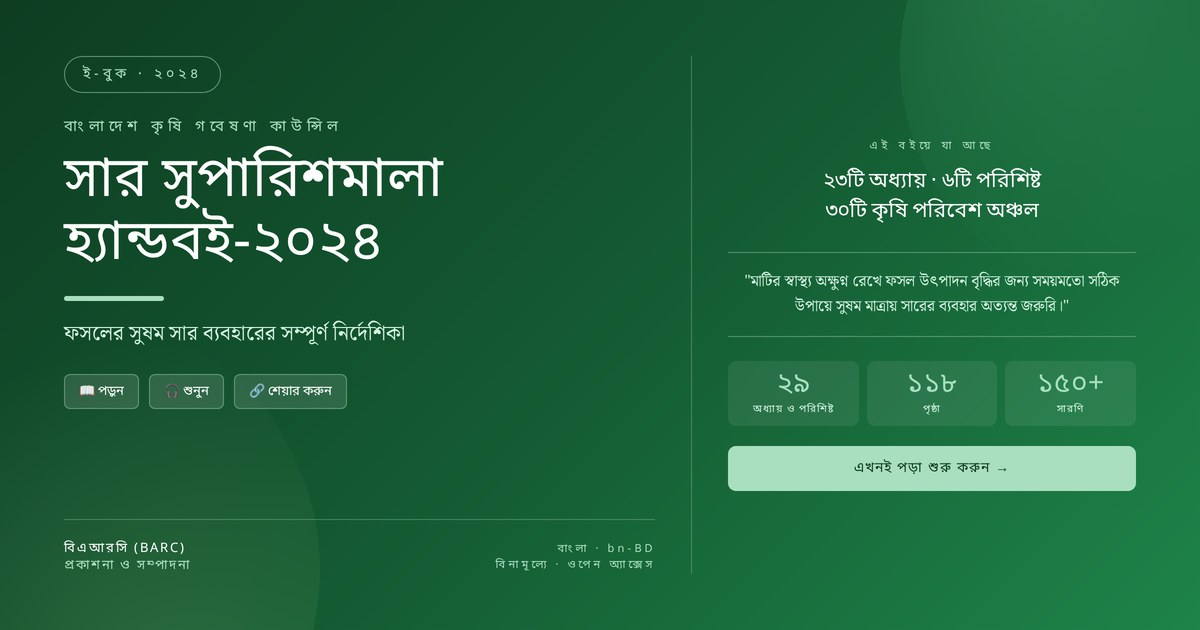
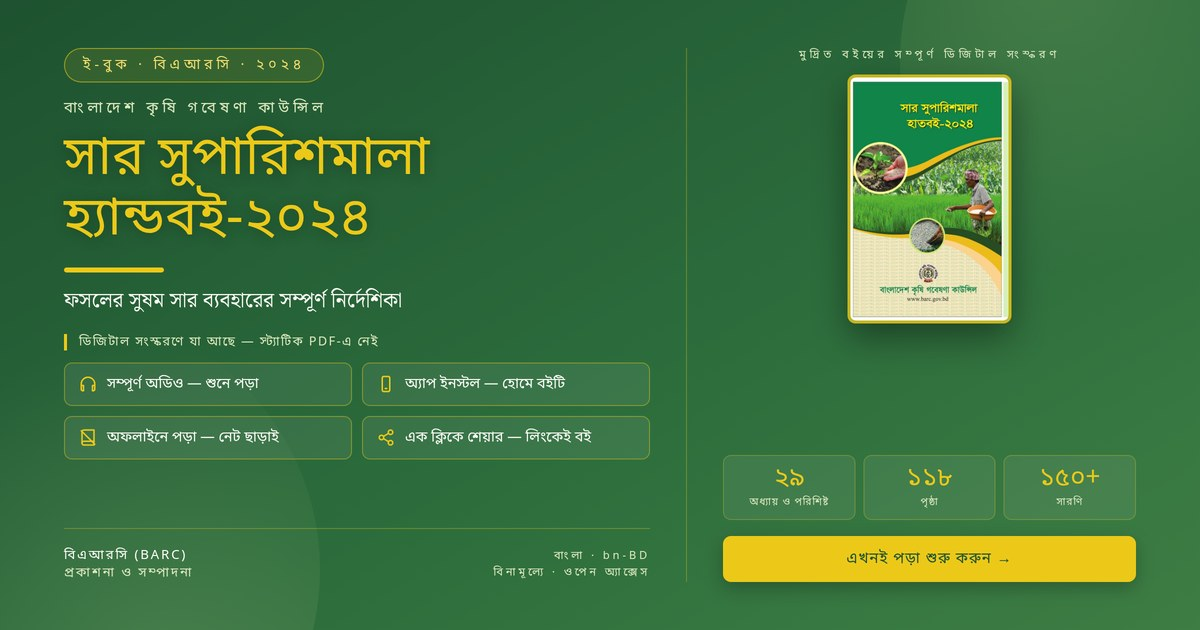
OG/social preview redesign: cover-brand palette (green #2C6C3C + gold #ECC919 gold-foil title), real framed book cover, digital-exclusive value chips (audio listen, app install, offline reading, one-click share) vs static PDF, gold CTA; meta cache-bust ?v=2 + richer alt/description; SW v3.1.6

diff --git a/og-image.html b/og-image.html
@@ -16,16 +16,16 @@
 * { box-sizing: border-box; margin: 0; padding: 0; }
 html, body {
     width: 1200px; height: 630px;
-    background: #0E3D22;
+    background: #1E5230;
     font-family: 'NotoSansBengali', sans-serif;
     overflow: hidden;
 }
 .og-card {
     width: 1200px; height: 630px;
-    background: linear-gradient(135deg, #0E3D22 0%, #145A32 50%, #1E8449 100%);
+    background: linear-gradient(150deg, #1E5230 0%, #2C6C3C 55%, #3E7E44 100%);
     color: #FFFFFF;
     position: relative;
-    padding: 56px 64px;
+    padding: 48px 64px;
     display: flex;
     flex-direction: row;
     align-items: stretch;
@@ -37,7 +37,7 @@ html, body {
     top: -180px; right: -180px;
     width: 480px; height: 480px;
     border-radius: 50%;
-    background: radial-gradient(circle at 30% 30%, rgba(82, 190, 128, 0.25), transparent 65%);
+    background: radial-gradient(circle at 30% 30%, rgba(141, 181, 108, 0.28), transparent 65%);
     pointer-events: none;
 }
 .og-card::after {
@@ -46,11 +46,11 @@ html, body {
     bottom: -200px; left: -200px;
     width: 520px; height: 520px;
     border-radius: 50%;
-    background: radial-gradient(circle at 70% 70%, rgba(174, 214, 142, 0.15), transparent 65%);
+    background: radial-gradient(circle at 70% 70%, rgba(237, 239, 172, 0.14), transparent 65%);
     pointer-events: none;
 }
 .og-left {
-    flex: 1.45;
+    flex: 1.42;
     display: flex;
     flex-direction: column;
     justify-content: space-between;
@@ -61,149 +61,162 @@ html, body {
     flex: 1;
     display: flex;
     flex-direction: column;
-    justify-content: center;
-    align-items: stretch;
+    justify-content: space-between;
+    align-items: center;
     z-index: 2;
-    border-left: 1px solid rgba(169, 223, 191, 0.3);
+    border-left: 1px solid rgba(236, 201, 25, 0.3);
     padding-left: 36px;
 }
 .og-tag {
     display: inline-block;
     font-size: 14px;
-    font-weight: 600;
+    font-weight: 700;
     letter-spacing: 4px;
-    color: #A9DFBF;
-    border: 1px solid rgba(169, 223, 191, 0.5);
-    padding: 8px 18px;
+    color: #F3DC6D;
+    border: 1px solid rgba(236, 201, 25, 0.55);
+    background: rgba(236, 201, 25, 0.10);
+    padding: 7px 18px;
     border-radius: 999px;
     width: fit-content;
 }
 .og-eyebrow {
     font-size: 15px;
-    font-weight: 600;
-    color: #A9DFBF;
-    letter-spacing: 5px;
-    margin-top: 24px;
+    font-weight: 700;
+    color: #DCE8BE;
+    letter-spacing: 4px;
+    margin-top: 16px;
 }
 .og-title {
     font-family: 'NotoSansBengali', sans-serif;
-    font-size: 56px;
+    font-size: 54px;
     font-weight: 900;
     line-height: 1.12;
-    color: #FFFFFF;
-    margin: 14px 0 20px 0;
+    color: #ECC919;
+    text-shadow: 0 2px 14px rgba(0, 0, 0, 0.28);
+    margin: 12px 0 16px 0;
 }
 .og-rule {
     width: 100px; height: 5px;
-    background: #A9DFBF;
-    margin: 0 0 18px 0;
+    background: #ECC919;
+    margin: 0 0 14px 0;
     border-radius: 3px;
 }
 .og-subtitle {
     font-family: 'NotoSerifBengali', serif;
     font-size: 21px;
-    color: #D5F5E3;
-    line-height: 1.45;
-    margin-bottom: 24px;
+    color: #FDFCF7;
+    line-height: 1.4;
+    margin-bottom: 18px;
+}
+.og-digital-eyebrow {
+    font-size: 12.5px;
+    font-weight: 700;
+    color: #DCE8BE;
+    letter-spacing: 1.5px;
+    margin-bottom: 12px;
+    padding-left: 12px;
+    border-left: 3px solid #ECC919;
 }
 .og-features {
-    display: flex;
+    display: grid;
+    grid-template-columns: 1fr 1fr;
     gap: 10px;
-    flex-wrap: wrap;
 }
 .og-feature {
-    font-size: 13px;
-    font-weight: 600;
-    color: #FFFFFF;
-    background: rgba(255, 255, 255, 0.12);
-    border: 1px solid rgba(169, 223, 191, 0.4);
-    padding: 8px 14px;
-    border-radius: 6px;
+    display: flex;
+    align-items: center;
+    gap: 10px;
+    font-size: 14.5px;
+    font-weight: 700;
+    color: #FDFCF7;
+    background: rgba(255, 255, 255, 0.07);
+    border: 1px solid rgba(236, 201, 25, 0.4);
+    padding: 11px 14px;
+    border-radius: 8px;
 }
+.og-feature svg { flex: none; }
 .og-foot {
     display: flex;
     justify-content: space-between;
     align-items: center;
-    margin-top: 26px;
-    padding-top: 20px;
-    border-top: 1px solid rgba(169, 223, 191, 0.3);
+    margin-top: 22px;
+    padding-top: 18px;
+    border-top: 1px solid rgba(236, 201, 25, 0.3);
 }
 .og-author {
     font-size: 13px;
-    color: #A9DFBF;
+    color: #DCE8BE;
     letter-spacing: 2px;
 }
-.og-author strong { color: #FFFFFF; font-weight: 700; }
+.og-author strong { color: #FDFCF7; font-weight: 700; }
 .og-pub {
     font-size: 11px;
-    color: #A9DFBF;
+    color: #DCE8BE;
     letter-spacing: 3px;
     text-align: right;
     line-height: 1.5;
 }
 .og-right-eyebrow {
     font-size: 11px;
-    color: #A9DFBF;
+    color: #DCE8BE;
     letter-spacing: 4px;
     text-transform: uppercase;
-    margin-bottom: 14px;
+    margin-bottom: 12px;
     text-align: center;
 }
-.og-right-title {
-    font-family: 'NotoSansBengali', sans-serif;
-    font-size: 21px;
-    font-weight: 700;
-    color: #FFFFFF;
-    text-align: center;
-    line-height: 1.45;
-    margin-bottom: 16px;
+.og-cover {
+    width: 164px;
+    margin: 0 auto;
 }
-.og-quote {
-    font-family: 'NotoSerifBengali', serif;
-    font-size: 15.5px;
-    color: #D5F5E3;
-    line-height: 1.65;
-    text-align: center;
-    padding: 16px 14px;
-    border-top: 1px solid rgba(169, 223, 191, 0.4);
-    border-bottom: 1px solid rgba(169, 223, 191, 0.4);
-    margin: 8px 0 16px 0;
+.og-cover img {
+    display: block;
+    width: 100%;
+    height: auto;
+    aspect-ratio: 1067 / 1620;
+    object-fit: cover;
+    border-radius: 8px;
+    border: 3px solid rgba(236, 201, 25, 0.8);
+    box-shadow: 0 14px 34px rgba(0, 0, 0, 0.4);
 }
 .og-stats {
     display: grid;
     grid-template-columns: 1fr 1fr 1fr;
     gap: 8px;
-    margin-top: 8px;
+    width: 100%;
+    margin-top: 16px;
 }
 .og-stat {
     text-align: center;
     padding: 10px 4px;
-    background: rgba(255,255,255,0.08);
+    background: rgba(255, 255, 255, 0.07);
+    border: 1px solid rgba(236, 201, 25, 0.25);
     border-radius: 8px;
 }
 .og-stat-num {
     font-family: 'NotoSansBengali', sans-serif;
-    font-size: 28px;
+    font-size: 26px;
     font-weight: 900;
-    color: #A9DFBF;
+    color: #ECC919;
     line-height: 1;
 }
 .og-stat-label {
     font-size: 10px;
-    color: #D5F5E3;
+    color: #DCE8BE;
     letter-spacing: 1px;
     margin-top: 4px;
 }
 .og-cta {
-    margin-top: 20px;
-    padding: 13px 18px;
-    background: #A9DFBF;
-    color: #0E3D22;
+    margin-top: 16px;
+    padding: 13px 20px;
+    background: #ECC919;
+    color: #1E5230;
     border-radius: 8px;
     text-align: center;
-    font-size: 14px;
-    font-weight: 700;
+    font-size: 15px;
+    font-weight: 900;
     letter-spacing: 1px;
+    width: 100%;
+    box-shadow: 0 6px 18px rgba(0, 0, 0, 0.25);
 }
 </style>
 </head>
@@ -211,15 +224,29 @@ html, body {
 <div class="og-card">
     <div class="og-left">
         <div>
-            <div class="og-tag">ই-বুক · ২০২৪</div>
+            <div class="og-tag">ই-বুক · বিএআরসি · ২০২৪</div>
             <div class="og-eyebrow">বাংলাদেশ কৃষি গবেষণা কাউন্সিল</div>
             <h1 class="og-title">সার সুপারিশমালা<br/>হ্যান্ডবই-২০২৪</h1>
             <div class="og-rule"></div>
             <p class="og-subtitle">ফসলের সুষম সার ব্যবহারের সম্পূর্ণ নির্দেশিকা</p>
+            <div class="og-digital-eyebrow">ডিজিটাল সংস্করণে যা আছে — স্ট্যাটিক PDF-এ নেই</div>
             <div class="og-features">
-                <span class="og-feature">📖 পড়ুন</span>
-                <span class="og-feature">🎧 শুনুন</span>
-                <span class="og-feature">🔗 শেয়ার করুন</span>
+                <div class="og-feature">
+                    <svg width="18" height="18" viewBox="0 0 24 24" fill="none" stroke="#ECC919" stroke-width="2" stroke-linecap="round" stroke-linejoin="round"><path d="M3 18v-6a9 9 0 0 1 18 0v6"/><path d="M21 19a2 2 0 0 1-2 2h-1v-7h3v5zM3 19a2 2 0 0 0 2 2h1v-7H3v5z"/></svg>
+                    সম্পূর্ণ অডিও — শুনে পড়া
+                </div>
+                <div class="og-feature">
+                    <svg width="18" height="18" viewBox="0 0 24 24" fill="none" stroke="#ECC919" stroke-width="2" stroke-linecap="round" stroke-linejoin="round"><rect x="7" y="2" width="10" height="20" rx="2"/><line x1="11" y1="18" x2="13" y2="18"/></svg>
+                    অ্যাপ ইনস্টল — হোমে বইটি
+                </div>
+                <div class="og-feature">
+                    <svg width="18" height="18" viewBox="0 0 24 24" fill="none" stroke="#ECC919" stroke-width="2" stroke-linecap="round" stroke-linejoin="round"><path d="M4 19.5A2.5 2.5 0 0 1 6.5 17H20"/><path d="M6.5 2H20v20H6.5A2.5 2.5 0 0 1 4 19.5v-15A2.5 2.5 0 0 1 6.5 2z"/><line x1="3" y1="3" x2="21" y2="21"/></svg>
+                    অফলাইনে পড়া — নেট ছাড়াই
+                </div>
+                <div class="og-feature">
+                    <svg width="18" height="18" viewBox="0 0 24 24" fill="none" stroke="#ECC919" stroke-width="2" stroke-linecap="round" stroke-linejoin="round"><circle cx="18" cy="5" r="3"/><circle cx="6" cy="12" r="3"/><circle cx="18" cy="19" r="3"/><line x1="8.59" y1="13.51" x2="15.42" y2="17.49"/><line x1="15.41" y1="6.51" x2="8.59" y2="10.49"/></svg>
+                    এক ক্লিকে শেয়ার — লিংকেই বই
+                </div>
             </div>
         </div>
         <div class="og-foot">
@@ -234,26 +261,27 @@ html, body {
         </div>
     </div>
     <div class="og-right">
-        <div class="og-right-eyebrow">এই বইয়ে যা আছে</div>
-        <div class="og-right-title">২৩টি অধ্যায় · ৬টি পরিশিষ্ট<br/>৩০টি কৃষি পরিবেশ অঞ্চল</div>
-        <div class="og-quote">
-            "মাটির স্বাস্থ্য অক্ষুণ্ন রেখে ফসল উৎপাদন বৃদ্ধির জন্য সময়মতো সঠিক উপায়ে সুষম মাত্রায় সারের ব্যবহার অত্যন্ত জরুরি।"
+        <div>
+            <div class="og-right-eyebrow">মুদ্রিত বইয়ের সম্পূর্ণ ডিজিটাল সংস্করণ</div>
+            <div class="og-cover"><img src="assets/cover_front.jpg" alt=""></div>
         </div>
-        <div class="og-stats">
-            <div class="og-stat">
-                <div class="og-stat-num">২৯</div>
-                <div class="og-stat-label">অধ্যায় ও পরিশিষ্ট</div>
+        <div style="width: 100%;">
+            <div class="og-stats">
+                <div class="og-stat">
+                    <div class="og-stat-num">২৯</div>
+                    <div class="og-stat-label">অধ্যায় ও পরিশিষ্ট</div>
+                </div>
+                <div class="og-stat">
+                    <div class="og-stat-num">১১৮</div>
+                    <div class="og-stat-label">পৃষ্ঠা</div>
+                </div>
+                <div class="og-stat">
+                    <div class="og-stat-num">১৫০+</div>
+                    <div class="og-stat-label">সারণি</div>
+                </div>
             </div>
-            <div class="og-stat">
-                <div class="og-stat-num">১১৮</div>
-                <div class="og-stat-label">পৃষ্ঠা</div>
-            </div>
-            <div class="og-stat">
-                <div class="og-stat-num">১৫০+</div>
-                <div class="og-stat-label">সারণি</div>
-            </div>
+            <div class="og-cta">এখনই পড়া শুরু করুন →</div>
         </div>
-        <div class="og-cta">এখনই পড়া শুরু করুন →</div>
     </div>
 </div>
 </body>

diff --git a/index.html b/index.html
@@ -19,13 +19,13 @@
 <meta property="og:type" content="book">
 <meta property="og:site_name" content="সার সুপারিশমালা হ্যান্ডবই-২০২৪">
 <meta property="og:title" content="সার সুপারিশমালা হ্যান্ডবই-২০২৪ — ফসলের সুষম সার ব্যবহারের সম্পূর্ণ নির্দেশিকা — বিএআরসি">
-<meta property="og:description" content="২৯টি অধ্যায় ও পরিশিষ্ট · ৩০টি কৃষি পরিবেশ অঞ্চল · ১৫০+ সারণি। বিএআরসি প্রকাশিত FRG-2024 — পড়ুন, শুনুন, শেয়ার করুন।">
-<meta property="og:image" content="https://moniruzjaman.github.io/frg-2024-ebook/og-image.jpg">
-<meta property="og:image:secure_url" content="https://moniruzjaman.github.io/frg-2024-ebook/og-image.jpg">
+<meta property="og:description" content="২৯টি অধ্যায় ও পরিশিষ্ট · ৩০টি কৃষি পরিবেশ অঞ্চল · ১৫০+ সারণি। বিএআরসি প্রকাশিত FRG-2024 — অডিও, অ্যাপ ইনস্টল, অফলাইন পড়া সহ — যা স্ট্যাটিক PDF-এ নেই।">
+<meta property="og:image" content="https://moniruzjaman.github.io/frg-2024-ebook/og-image.jpg?v=2">
+<meta property="og:image:secure_url" content="https://moniruzjaman.github.io/frg-2024-ebook/og-image.jpg?v=2">
 <meta property="og:image:type" content="image/jpeg">
 <meta property="og:image:width" content="1200">
 <meta property="og:image:height" content="630">
-<meta property="og:image:alt" content="সার সুপারিশমালা হ্যান্ডবই-২০২৪ — বাংলা ই-বুক">
+<meta property="og:image:alt" content="সার সুপারিশমালা হ্যান্ডবই-২০২৪ — অডিও, অ্যাপ ইনস্টল, অফলাইন পড়া সহ ডিজিটাল ই-বুক">
 <meta property="og:locale" content="bn_BD">
 <meta property="og:locale:alternate" content="bn_IN">
 <meta property="og:locale:alternate" content="en_US">
@@ -41,9 +41,9 @@
 <meta name="twitter:site" content="@zai_ebooks">
 <meta name="twitter:creator" content="@zai_ebooks">
 <meta name="twitter:title" content="সার সুপারিশমালা হ্যান্ডবই-২০২৪ — বাংলা ই-বুক">
-<meta name="twitter:description" content="ফসলের সুষম সার ব্যবহারের সম্পূর্ণ নির্দেশিকা — বিএআরসি। পড়ুন, শুনুন, শেয়ার করুন।">
-<meta name="twitter:image" content="https://moniruzjaman.github.io/frg-2024-ebook/og-image.jpg">
-<meta name="twitter:image:alt" content="সার সুপারিশমালা হ্যান্ডবই-২০২৪ — বাংলা ই-বুক">
+<meta name="twitter:description" content="ফসলের সুষম সার ব্যবহারের সম্পূর্ণ নির্দেশিকা — বিএআরসি। অডিও, অ্যাপ ইনস্টল, অফলাইন পড়া সহ — যা স্ট্যাটিক PDF-এ নেই।">
+<meta name="twitter:image" content="https://moniruzjaman.github.io/frg-2024-ebook/og-image.jpg?v=2">
+<meta name="twitter:image:alt" content="সার সুপারিশমালা হ্যান্ডবই-২০২৪ — অডিও, অ্যাপ ইনস্টল, অফলাইন পড়া সহ ডিজিটাল ই-বুক">
 
 <!-- Facebook-specific (appid optional, but fb:pages helps categorization) -->
 <meta property="fb:pages" content="self-learning ebook">

diff --git a/sw.js b/sw.js
@@ -6,7 +6,7 @@
    - Stale-while-revalidate for same-origin assets
    ============================================================ */
 
-const VERSION = 'frg-ebook-v3.1.5';
+const VERSION = 'frg-ebook-v3.1.6';
 const CORE_CACHE = VERSION + '-core';
 const RUNTIME_CACHE = VERSION + '-runtime';
 
